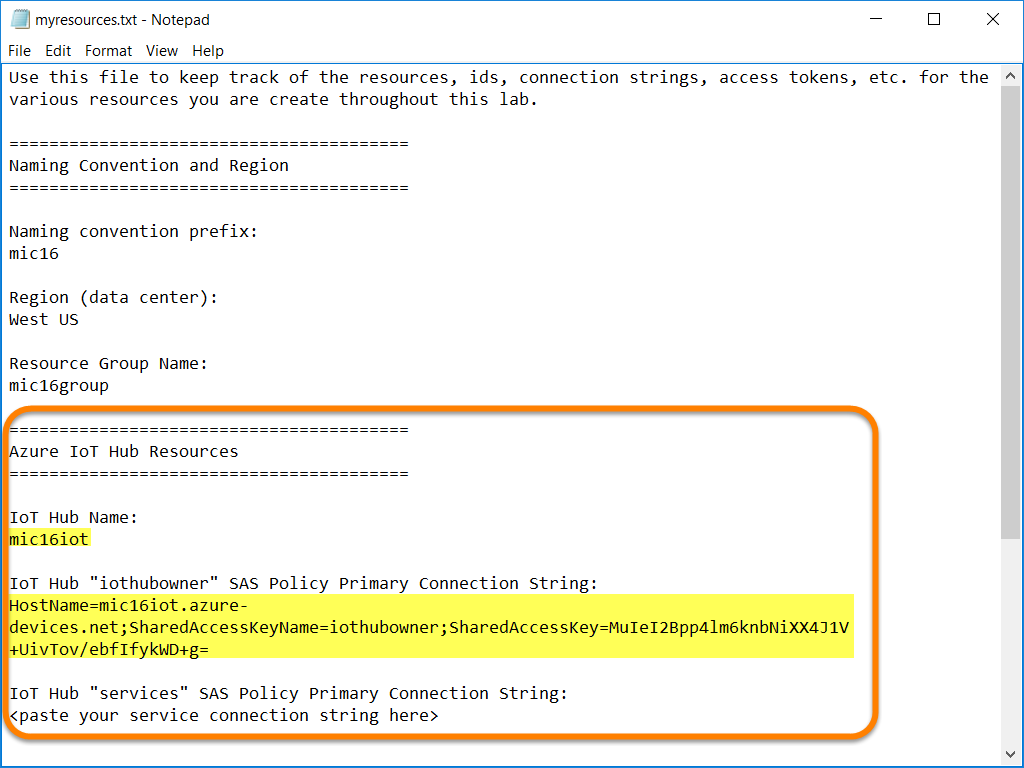
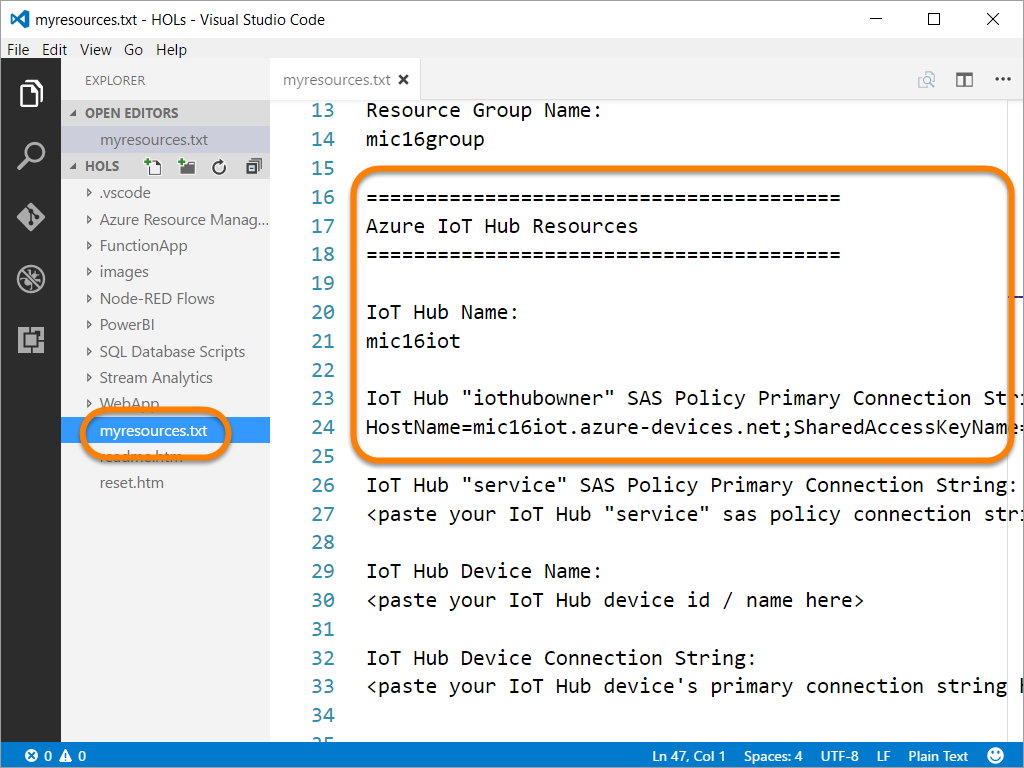
Numerous updates up through SQL db creation

diff --git a/HOLs/readme.md b/HOLs/readme.md
@@ -478,9 +478,33 @@ For the purposes of this lab examples, we'll use the "**mic16**" prefix, short f
 
 ### Documenting Your Choices ###
 
-In the same folder as this readme file where you extract the lab files for this lab there is a "**[myresources.txt](./myresources.txt)**" text file.  You can open that file in the text editor of your choice, and record the choices you make here for your ***&lt;name&gt;*** name prefix and for the region you wish to use.
+We'll document the choices, names, connection strings, keys, etc. for the resources we create into a text file called "**[myresources.txt](./myresources.txt)**".  This file is in the root of the "**HOLs/**" folder wherever you copied or extracted the lab files for this lab to.  By documenting key pieces of information here it will make it much easier to retrieve them later.  You often need a connection string, or key for a resource long after you created it.  By recording the values here it keeps you from having to navigate back through the **Azure Portal** everytime you need to retrieve a value.
 
-![Documenting Your Choices](images/06010-DocumentingYourChoices.png)
+You could really edit "**myresources.txt**" with any text editor, but we'll be using **Visual Studio Code** for a number of tasks throughout this lab, so we'll take the opportunity here to get it open:
+
+1. Open Visual Studio Code (if you don't have it installed you can download it for free for any platofrm from <a target="_blank" href="http://code.visualstudio.com">code.visualstudio.com</a>).
+
+1. In the "Explorer" panel, click on the "**myresources.txt**" file to open it. In the file, you can see numerous placeholders for information you will be collecting throughout this lab:
+
+    ![Documenting Your Choices](images/06010-DocumentingYourChoices.png)
+
+    > **Note**: You may notice that the colors used by your instance of "**Visual Studio Code**" don't match the colors shown in the screenshots in this documentation.  The screenshots here were taken with **Visual Studio Code**'s "**Color Theme**" set to "**Light+ (default light)**".  If you want to change yours to match (not required), from the "**Visual Studio Code**" menu bar select "**File**" | "**Preferences**" | "**Color Theme**", then in the command pallete drop down, select "**Light+ (default light)**".
+
+    ![Light Color Theme](images/06015-DefaultLigtColorTheme.png)
+
+1. Take the time now to update the **myresource.txt** file with appropriate values for the:
+
+    > **Note**: when replacing placeholders throughout the lab, make sure to remove the **`<`** and **`>`** symbols at the ends of the placeholder as well.
+
+    - Naming convetion prefix
+    - Region (data center)
+    - Resource Group Name
+
+    ![Naming Convetion, Region & Group Section](images/06020-ConvetionRegionAndGroupSection.png)
+
+    For example, here's the section with the "**mic16**" prefix, and "**West US**" region selected:
+
+    ![Naming Convention, Region & Grou Documented](images/06030-ConventionRegionAndGroupDocumented.png)
 
 ___
 
@@ -530,7 +554,7 @@ In this task, we'll create the ***&lt;name&gt;iot*** Azure IoT Hub and since it'
 
     ![iothubowner SAS Policy](images/07060-IoTHubOwnerPolicy.png)
 
-1. Then paste it into the "**[myresources.txt](./myresources.txt)**" file so you can retrieve it easily later.  Go ahead and document your Azure IoT Hub name while you're there.
+1. Update the the "**[myresources.txt](./myresources.txt)**" file with the "***&lt;name&gt;iot***" iot hub name, and "**iothubowner**" connection string so you can retrieve them easily later.
 
     ![Document iothubowner Connection String](images/07070-DocumentIoTHubOwnerConnectionString.png)
 
@@ -560,7 +584,7 @@ ___
 Creating an Azure IoT Hub Device Identity
 ---
 
-Now that we have our Azure IoT Hub created, we want to create an entry in the hub's device identity registry.  As "device identity" in the IoT Hub's device identity registry is basically a unique id, and access key that can be used by the actual device in the field (The Intel NUC and with Arduino 101 in our case) to connect to the IoT Hub.  The connection string for the device entry in the registry will be used by the actual device to securely connect to the IoT Hub and send and receive messages as that device.  You can learn more about Azure IoT Hub devices in the "**<a target="_blank" href="https://azure.microsoft.com/en-us/documentation/articles/iot-hub-devguide-identity-registry/">Manage device identities in IoT Hub</a>**" article online.
+Now that we have our Azure IoT Hub created, we want to create an entry in the hub's device identity registry.  A "device identity" in the IoT Hub's device identity registry is basically a unique id and access key that can be used by the actual device in the field (The Intel NUC and with Arduino 101 in our case) to connect to the IoT Hub.  The connection string for the device entry in the registry will be used by the actual device to securely connect to the IoT Hub and send and receive messages as that device.  You can learn more about Azure IoT Hub devices in the "**<a target="_blank" href="https://azure.microsoft.com/en-us/documentation/articles/iot-hub-devguide-identity-registry/">Manage device identities in IoT Hub</a>**" article online.
 
 At the time this is being written, the Azure Portal does not allow you to provision device identities in the registry, although you can view existing ones.  In order to create our device identity, we will use a node.js command line interface for working with your Azure IoT Hubs called "**<a target="_blank" href="https://www.npmjs.com/package/iothub-explorer">iothub-explorer</a>**"
 
@@ -633,10 +657,10 @@ There is a graphical tool for Windows called "**Device Explorer**".  We won't do
     Use the --connection-string option to generate a connection string for the device(s).
     Add the --raw option to any command (except help) to minimize output and format results as JSON.
     ```
-1. Note the `iothub-explorer login` option.  This allows you to etner your IoT Hub connection string once, and not have to re-supply the connection string for every command during the "session".  The "session" lasts for one hour by default. To login, we'll need the "iothubowner" SAS policy connection string we copied int the "**[myresources.txt](./myresources.txt)**" file previously.  Retrieve that string from the file, and use it to login to your Azure IoT Hub with iothub-explorer as follows:
+1. Note the `iothub-explorer login` option.  This allows you to enter your IoT Hub connection string once, and not have to re-supply the connection string for every command during the "session".  The "session" lasts for one hour by default. To login, we'll need the "iothubowner" SAS policy connection string we copied int the "**[myresources.txt](./myresources.txt)**" file previously.  Retrieve that string from the file, and use it to login to your Azure IoT Hub with iothub-explorer as follows:
 
     ```bash
-    iothub-explorer login "<paste your iothub owner connection string here>"
+    iothub-explorer login "<paste your IoT Hub 'iothubowner' SAS Policy Primary Connection String here>"
     ```
     For example:
 
@@ -692,7 +716,7 @@ There is a graphical tool for Windows called "**Device Explorer**".  We won't do
     -
     connectionString: HostName=mic16iot.azure-devices.net;DeviceId=mic16IntelIoTGateway;SharedAccessKey=q9D0X2vXNsQ5LET3TlXx+FpHZ1SP6pQ9+69+hudCIZk=
     ```
-1. Copy the connection string for the new device from the command output, and past it along with your device id into the "**[myresources.txt](./myresources.txt)**" file:
+1. Copy the connection string for the new device from the command output, and document it along with your device id in the "**[myresources.txt](./myresources.txt)**" file:
 
     ![Document Device Identity](images/08030-DocumentDeviceIdentity.png)
 
@@ -702,6 +726,11 @@ There is a graphical tool for Windows called "**Device Explorer**".  We won't do
     iothub-explorer list --connection-string
     ```
 
+1. Or, you can retrieve the details (including the connection string) of a specific device with:
+
+    ```text
+    iothub-explorer get <deviceid> --connection-string
+    ```
 ___
 
 <a name="PublishToIoTHub"></a>
@@ -762,7 +791,7 @@ In this task, we'll update the Intel NUC with some packages to help it talk to o
     <blockquote>
       **Note**: You can see what all is installed with the packagegroup-cloud-azure package here: <a target="_blank" href="https://github.com/intel-iot-devkit/meta-iot-cloud/blob/master/recipes-core/packagegroups/packagegroup-cloud-azure_0.9.bb">link</a>
        <br/>
-      Basically it is all of the node.js packages for the various Azure IoT Hub sdks.  It also includes a Node-RED node for working with Azure IoT Hubs (<a target="_blank" href="https://www.npmjs.com/package/node-red-contrib-azureiothubnode">link</a>).
+      Basically it is all of the npm packages for the various Azure IoT Hub sdks.  It also includes a Node-RED node for working with Azure IoT Hubs (<a target="_blank" href="https://www.npmjs.com/package/node-red-contrib-azureiothubnode">link</a>).
     </blockquote>
 
     ![Install packagegroup-cloud-azure](images/09060-InstallPackageGroupCloudAzure.png)
@@ -816,13 +845,13 @@ In this task, we'll update the Intel NUC with some packages to help it talk to o
     - Use the device id you generated in place of the ***&lt;name&gt;IntelIoTGateway*** device id
 
     ```bash
-    iothub-explorer "<your iothubowner SAS policy connection string>" monitor-events <name>IntelIoTGateway
+    iothub-explorer "<IoT Hub 'iothubowner' SAS Policy Primary Connection String>" monitor-events <name>IntelIoTGateway
     ```
 
     For example:
 
     ```bash
-    iothub-explorer "HostName=mic16iot.azure-devices.net;SharedAccessKeyName=iothubowner;SharedAccessKey=MuIeI2BpfykWD+g=" monitor-events mic16IntelIoTGateway
+    iothub-explorer "HostName=mic16iot.azure-devices.net;SharedAccessKeyName=iothubowner;SharedAccessKey=MuIeI2Bpp4lm6knbNiXX4J1V+UivTov/ebfIfykWD+g=" monitor-events mic16IntelIoTGateway
     ```
 
     And you should see output similar to this:
@@ -855,7 +884,7 @@ In this task, we'll update the Intel NUC with some packages to help it talk to o
 
 1. If you are feeling adventurous, trade iothubowner connection strings and device IDs with a neighbor in the lab and verify that you can monitor each other's devices.
 
-1. One last comment, we are using the "iothubowner" connection string to monitor the events.  You could actually use a less privileged policy, like the "service" sas policy we copied the connection string for earlier.  Go ahead and try monitoring events with the "service" policy connection string you pasted into the [myresources.txt](./myresources.txt) file.
+1. One last comment, we are using the "**iothubowner**" connection string to monitor the events.  You could actually use a less privileged policy, like the "**service**" sas policy  we copied the connection string for earlier.  Go ahead and try monitoring events with the **IoT Hub "service" SAS Policy Primary Connection String** policy connection string you pasted into the [myresources.txt](./myresources.txt) file.  It should work just fine because that SAS policy has permissions to read messages from the IoT Hub.
 
 ___
 
@@ -931,11 +960,13 @@ We'll start out creating the ***&lt;name&gt;sql*** Azure SQL Server, and the ***
 
     ![Document SQL](images/10085-DocumentSQL.png)
 
-1. Now that we have the database created, we need to create the database objects inside it.  To do that, we'll use Visual Studio Code, and the "vscode-mssql" extension.  Open Visual Studio Code (if you don't have it installed you can download it for free from <a target="_blank" href="http://code.visualstudio.com">code.visualstudio.com</a>) .  When Visual Studio Code is open, from the menu bar select "**File**" | "**Open Folder...**" menu item, and select the "**HOLs**" folder wherevery you extract the lab files to.
+1. Now that we have the database created, we need to create the database objects inside it.  To do that, we'll use Visual Studio Code, and the "vscode-mssql" extension.  Ensure "**Visual Studio Code**" is open to the "**HOLs/**" as instructed previously.
 
     ![HOLs Folder Open in VS Code](images/10090-HOLsFolderInCode.png)
 
 1. Then click the icon to open the "**Extensions**" panel, and in the search box at the top type **vscode-mssql**, and in the search results, click the "**Install**" button for the "**vscode-mssql** extension
+
+    > **Note**: Extensions provide a powerful way to expand the capabilities of Visual Studio Code.  There is a rich ecosystem of extensions developed by Microsoft as well as a worldwide community of developers that you can use in "**Visual Studio Code**".  The "**vscode-mssql**" extension we are installing here allows you to connect to your "**Azure SQL Database**" from with "**Visual Studio Code**" and execute SQL statements.
 
     ![Install the vscode-mssql Extension](images/10100-InstallVsCodeMssql.png)
 
@@ -949,9 +980,15 @@ We'll start out creating the ***&lt;name&gt;sql*** Azure SQL Server, and the ***
 
     ![Open Workspace Settings](images/10130-OpenWorkspaceSettings.png)
 
-1. Two files will open: **Default Settings** and **settings.json**.  The "**Default Settings**" are just there to show you what the defaults, we can ignore them. Edit the contents of the "**settings.json**" file with the appropriate details for the Azure SQL Server and Azure SQL Database you just created  Save your changes and close the "**Default Settings" and "settings.json**" files when you are done.
+1. Two files will open: **Default Settings** and **settings.json**.  The "**Default Settings**" are just there to show you what the defaults, we can ignore them, infact you can close the "**Default Settings**" tab is you wish.  Locate the connection properties for the SQL Server connection in the file:
 
     ![Connection Properties](images/10140-SQLConnectionProperties.png)
+
+    And replace them with the appropriate values from your **[myresources.txt](myresources.txt)** file.  For example:
+
+    ![Completed SQL Connection Properties](images/10145-CompletedSQLConnectionProperties.png)
+
+    Save and close the **settings.json** file when you are done.
 
 1. Click on the icon for the "**Explorer**" panel, select select the "**SQL Database Scripts\Create SQL Database Objects.sql**" file.  This script creates the following objects:
 
